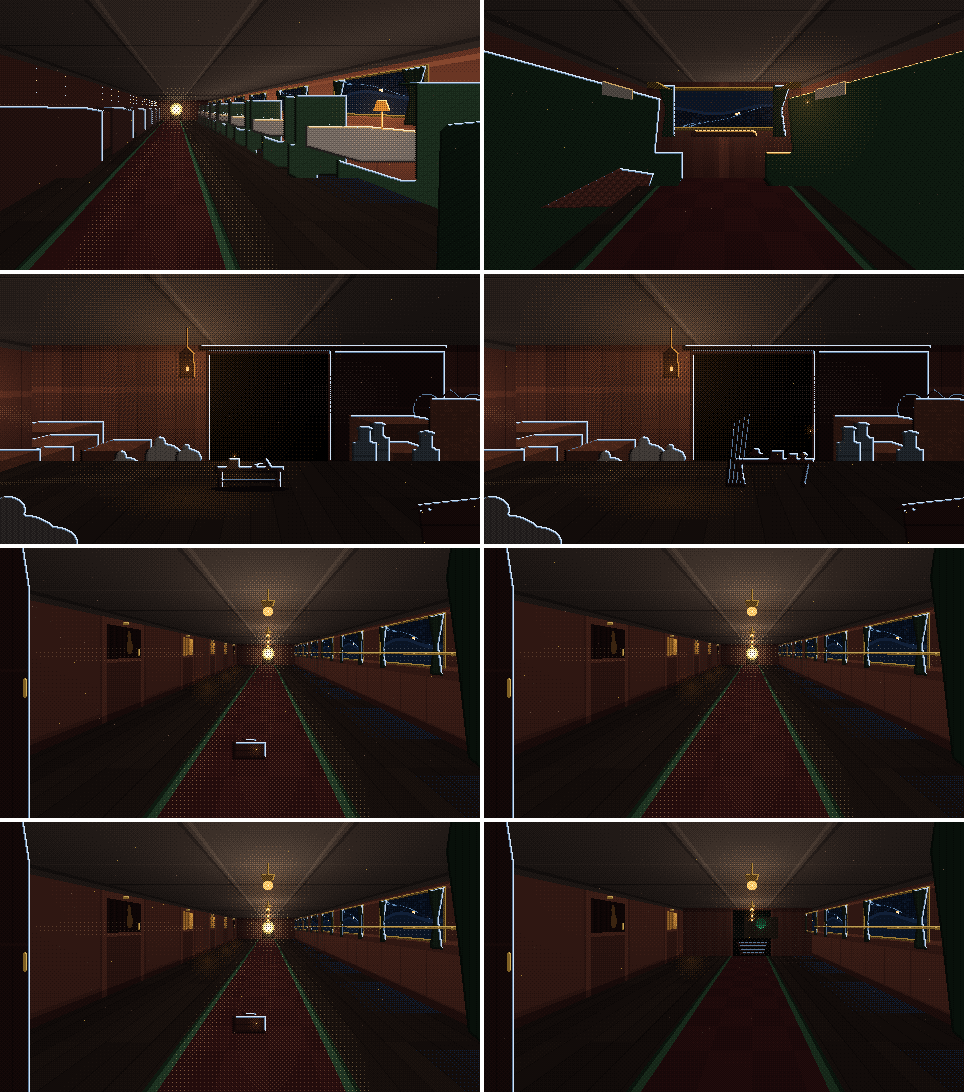
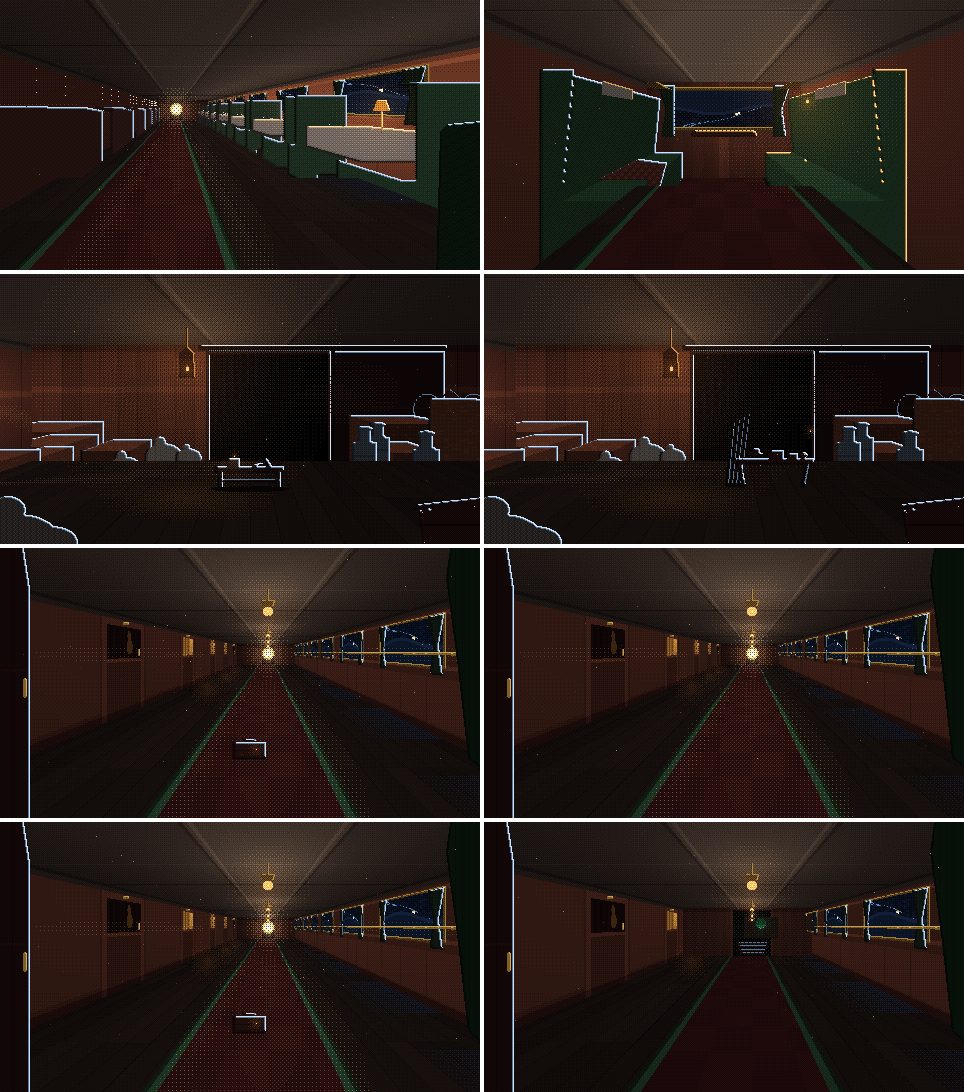
M6: Kloster der Abschrift – Novize, Tintenfrau, Kreuzgangwächter, Leser, Abschreiber, Hintergrund, Ereignisse, Items (Paket fertig)
Claude-Session: https://claude.ai/code/session_01TghvEfjLh3w7y1uAeKR46M

Changed region(s): [[0.6224, 0.0, 1.0, 0.2491], [0.4979, 0.0311, 0.6846, 0.2491]]

diff --git a/prototype/js/scenes/world/fabrik.js b/prototype/js/scenes/world/fabrik.js
@@ -214,9 +214,9 @@ function kesselhaus(K, cfg) {
   const R = Math.round(kw * .68), yc = P.q(0, 1.25, Zw)[1];
   xs.forEach((x, i) => {
     const offen = i === 3;
-    const ring = B.maske(); ring.ell(x, yc, R + 4, R + 4); K.form(1, ring, .1, { k: ROST, ton: 1.5, fase: 2, rand: 2, schatten: 2 });
-    if (offen) { const sp = B.maske(); sp.ell(x, yc, R, R); B.form(K.e[1], sp, K.mat(0, { k: ['#1a1a10', '#3a3418', '#6a5a20', '#a08a30'], ton: 2.2, rand: 0, fase: 0, verlaufX: 1 })); K.glut(x + R * .4, yc, R * 2.2, NAT_G, .9, [1, 2]); K.licht(x, yc, '#c8b060', R * 2, .7); }
-    const tuer = B.maske(); tuer.ell(offen ? x - R * .45 : x, yc, offen ? R * .55 : R, R); K.form(1, tuer, .08, Object.assign({ ton: 1.4, fase: 2, rand: 2, schatten: offen ? 3 : 0, muster: (px, py) => (Math.hypot(px - x, py - yc) > R - 3 && Math.hypot(px - x, py - yc) < R - 2 ? -.6 : 0) }, MET));
+    const ring = B.maske(); ring.ell(x, yc, R + 4, R + 4); K.form(1, ring, .25, { k: ROST, ton: 1.2, fase: 2, rand: 1, schatten: 2 });
+    if (offen) { const sp = B.maske(); sp.ell(x, yc, R, R); B.form(K.e[1], sp, K.mat(0, { k: ['#14140c', '#2a2612', '#4a4018', '#6a5a22'], ton: 1.8, rand: 0, fase: 0, verlaufX: 1 })); K.glut(x + R * .4, yc, R * 2.2, NAT_G, .9, [1, 2]); K.licht(x, yc, '#c8b060', R * 2, .7); }
+    const tuer = B.maske(); tuer.ell(offen ? x - R * .45 : x, yc, offen ? R * .55 : R, R); K.form(1, tuer, .22, Object.assign({ ton: 1.2, fase: 2, rand: 1, schatten: offen ? 3 : 0, muster: (px, py) => (Math.hypot(px - x, py - yc) > R - 3 && Math.hypot(px - x, py - yc) < R - 2 ? -.6 : 0) }, MET));
     if (!offen) { const rad = B.maske(); rad.ell(x, yc, R * .35, R * .35); rad.ell(x, yc, R * .35 - 1.5, R * .35 - 1.5, 0); for (let k = 0; k < 4; k++) { const a = k * Math.PI / 2 + .3; rad.kap(x, yc, x + Math.cos(a) * R * .35, yc + Math.sin(a) * R * .35, .6, .6); } K.form(1, rad, 0, { k: ROST, ton: 2.4, fase: 0, rand: 1 }); }
     for (let k = 0; k < 10; k++) { const a = k / 10 * 6.283; K.e[1].set(Math.round(x + Math.cos(a) * (R + 2)), Math.round(yc + Math.sin(a) * (R + 2)), B.pk(ROST[5])); }
     // Manometer darüber, der Zeiger steht über dem Strich
@@ -238,7 +238,7 @@ function kesselhaus(K, cfg) {
   const sch = B.maske(); sch.kap(404, 170, 420, 222, 1.2, 1.2); sch.poly([[414, 220], [426, 216], [432, 232], [418, 236]]); K.form(4, sch, 0, Object.assign({ ton: 1.4, fase: 0 }, MET));
   // Käfiglampen an der Wand
   for (const [x, y, an] of [[96, 70, fr < .7], [310, 66, fr < .9]]) { const m = B.maske(); m.rect(x - 1, y - 8, 3, 6); m.ell(x, y, 4, 5); m.ell(x, y, 2.6, 3.6, 0); K.form(1, m, 0, Object.assign({ ton: 1.4, fase: 0, rand: 1 }, MET)); if (an) { K.e[1].set(x, y, B.pk(NAT_K)); K.e[1].set(x, y + 1, B.pk(NAT)); K.glut(x, y, 46, NAT_G, 1, [0, 1]); K.licht(x, y, NAT, 46, .8); } }
-  B.nebel(K.e[3], { y0: yw - 70, y1: yw + 10, col: B.mix(pal.nebel[1], K.fern, .3), dichte: .22, xs: [20, 400, 60], seed: 4 });
+  B.nebel(K.e[2], { y0: yw - 95, y1: yw + 6, col: B.mix(pal.nebel[1], K.fern, .3), dichte: .42, xs: [20, 410, 70], seed: 4 });
   // Vordergrund: Rohr senkrecht links, Geländer unten
   const v = B.maske(); v.kap(14, -M, 14, H + M, 7, 7); for (let y = 20; y < H; y += 46) v.rect(4, y, 21, 4);
   v.rect(-M, 240, W + 2 * M, 3); for (let x = 40; x < W; x += 60) v.rect(x, 240, 3, 40);

diff --git a/docs/auftrag-2/fortschritt.md b/docs/auftrag-2/fortschritt.md
@@ -103,6 +103,12 @@ Allgemeiner Autospieler 30 Seeds: 47 %. **Korrigierte Ausreißer:** Brackwasser 
 | Der Kurgast mit Taucherbrille | Kurhaus | 4 (knapp, eher Mensch als fremd) | [M6](bilder/M6/kurhaus/kontakt-neben-favoriten.png) |
 | Die Oberschwester (Wächter) | Kurhaus | 4 | [M6](bilder/M6/kurhaus/im-spiel-waechter.png) |
 | Hintergrund Kurhaus (3 Varianten, Wächter-Szene) | Kurhaus | 4 | [M6](bilder/M6/kurhaus/hintergrund-varianten.png) |
+| Novize | Kloster | 4 (knapp, wenig Binnenform) | [M6](bilder/M6/kloster/kontaktbogen.png) |
+| Tintenfrau | Kloster | 4 (knapp) | [M6](bilder/M6/kloster/kontaktbogen.png) |
+| Kreuzgangwächter | Kloster | 4 | [M6](bilder/M6/kloster/kontaktbogen.png) |
+| Der Leser | Kloster | 4 | [M6](bilder/M6/kloster/kontaktbogen.png) |
+| Der Abschreiber (Wächter) | Kloster | 4 | [M6](bilder/M6/kloster/im-spiel-waechter.png) |
+| Hintergrund Kloster (3 Varianten, Wächter-Szene) | Kloster | 4 | [M6](bilder/M6/kloster/hintergrund-varianten.png) |
 
 ## Entscheidungen unterwegs
 
